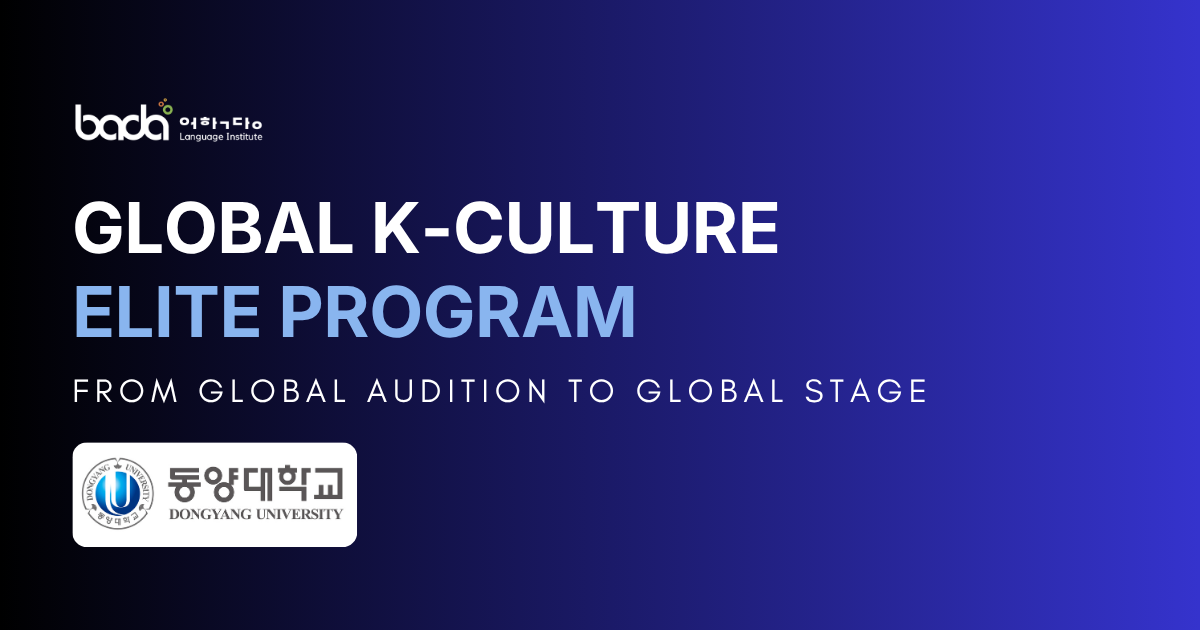
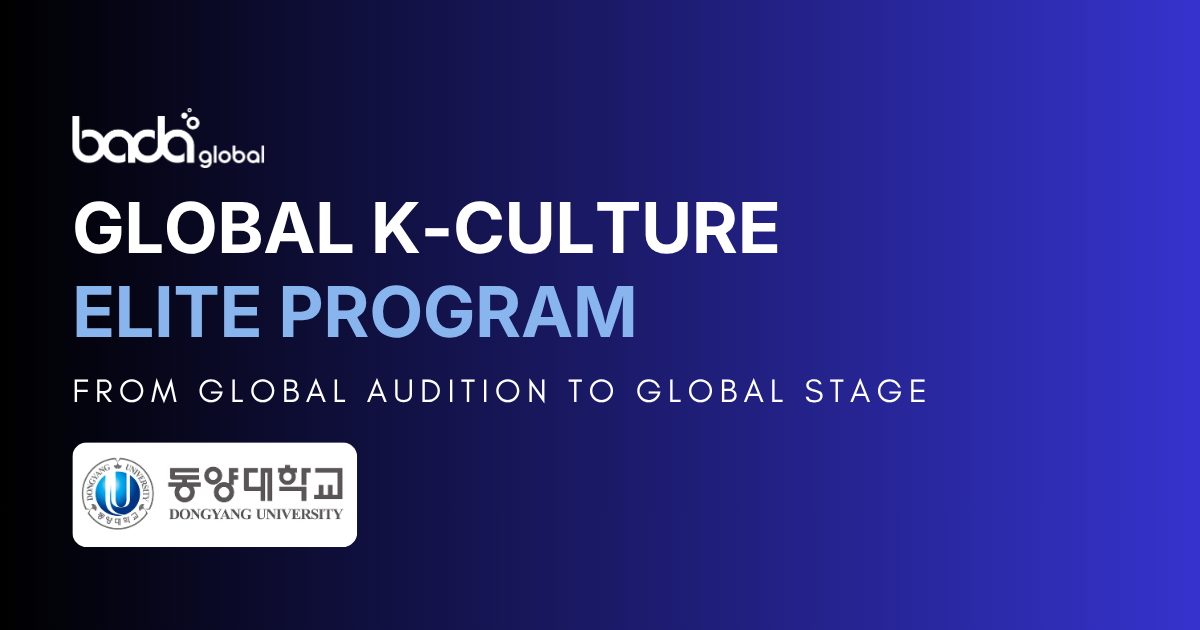
feat: Bada Global 리브랜드 + OG 이미지 교체
브랜드명 전면 일원화 (Chris 공식 채택):
- index.html 9곳 "Bada BLI" → "Bada Global"
  - <title>, meta description/keywords/author, og:title, twitter:title
  - 헤더·푸터 로고 alt, 주석, Footer Copyright
- workers/kc-chatbot/src/lib/system-prompt.ts 챗봇 시스템 프롬프트 1곳
  → Worker 재배포로 반영 필요

OG 이미지 교체:
- assets/og-image.png: "B2B Korean University Gateway" 새 디자인으로 덮어쓰기
  (1200×630 PNG, SNS 공유 표준 치수 유지)
- og:image / twitter:image URL에 ?v=2 캐시 버스팅 파라미터 추가
  → Facebook·KakaoTalk 등 SNS 캐시 강제 갱신 유도

기타:
- .gitignore: 원본 업로드 파일 'assets/B2B Korean University*.png' 제외
  (raw asset은 로컬 보관, 배포 대상 아님)

히스토리 맥락:
- kcultureelite는 2026-04-17 Bada BLI 사이트에서 독립 분리됨
- 이번 리브랜드로 브랜드 정체성까지 완전 별개 확립
- 추후 Bada BLI 쪽 /k-culture.html 삭제 시 301 리다이렉트 필요 (별도 작업)

Changed region(s): [[0.0617, 0.1508, 0.2158, 0.2714]]

diff --git a/index.html b/index.html
@@ -5,28 +5,28 @@
   <meta name="viewport" content="width=device-width, initial-scale=1.0" />
 
   <!-- SEO Meta Tags -->
-  <title>Global K-Culture Elite Program | Bada BLI x Dongyang University</title>
-  <meta name="description" content="From Global Audition to Global Stage. Join the Global K-Culture Elite Program by Bada BLI and Dongyang University — your pathway to K-Pop, K-Drama, and the Korean entertainment industry." />
-  <meta name="keywords" content="K-Culture, K-Pop, Korean entertainment, global audition, Dongyang University, Bada BLI, Korean music, K-Drama, study in Korea" />
-  <meta name="author" content="Bada BLI" />
+  <title>Global K-Culture Elite Program | Bada Global x Dongyang University</title>
+  <meta name="description" content="From Global Audition to Global Stage. Join the Global K-Culture Elite Program by Bada Global and Dongyang University — your pathway to K-Pop, K-Drama, and the Korean entertainment industry." />
+  <meta name="keywords" content="K-Culture, K-Pop, Korean entertainment, global audition, Dongyang University, Bada Global, Korean music, K-Drama, study in Korea" />
+  <meta name="author" content="Bada Global" />
   <meta name="robots" content="index, follow" />
   <link rel="canonical" href="https://kcultureelite.com/" />
 
   <!-- Open Graph / Social Media -->
   <meta property="og:type" content="website" />
   <meta property="og:url" content="https://kcultureelite.com/" />
-  <meta property="og:title" content="Global K-Culture Elite Program | Bada BLI x Dongyang University" />
+  <meta property="og:title" content="Global K-Culture Elite Program | Bada Global x Dongyang University" />
   <meta property="og:description" content="From Global Audition to Global Stage. Your pathway to K-Pop, K-Drama, and the Korean entertainment industry." />
-  <meta property="og:image" content="https://kcultureelite.com/assets/og-image.png" />
+  <meta property="og:image" content="https://kcultureelite.com/assets/og-image.png?v=2" />
   <meta property="og:image:width" content="1200" />
   <meta property="og:image:height" content="630" />
   <meta property="og:site_name" content="K-Culture Elite Program" />
 
   <!-- Twitter Card -->
   <meta name="twitter:card" content="summary_large_image" />
-  <meta name="twitter:title" content="Global K-Culture Elite Program | Bada BLI x Dongyang University" />
+  <meta name="twitter:title" content="Global K-Culture Elite Program | Bada Global x Dongyang University" />
   <meta name="twitter:description" content="From Global Audition to Global Stage. Your pathway to K-Pop, K-Drama, and the Korean entertainment industry." />
-  <meta name="twitter:image" content="https://kcultureelite.com/assets/og-image.png" />
+  <meta name="twitter:image" content="https://kcultureelite.com/assets/og-image.png?v=2" />
 
   <!-- Favicon -->
   <link rel="icon" type="image/svg+xml" href="/favicon.svg" />
@@ -158,11 +158,11 @@
       <div class="absolute inset-0 bg-gradient-to-b from-black/60 via-black/40 to-[#0A0A0A]"></div>
     </div>
 
-    <!-- Navigation: Dual logo (Bada BLI left, Dongyang University right) -->
+    <!-- Navigation: Dual logo (Bada Global left, Dongyang University right) -->
     <header id="navbar" class="fixed w-full top-0 z-50 transition-all duration-500 bg-transparent text-white py-0">
       <div class="container mx-auto px-6 md:px-12 flex justify-between items-center py-3 md:py-4">
         <a href="/" class="hover:opacity-80 transition-opacity flex items-center">
-          <img src="/assets/logo-white.png" alt="Bada BLI Logo" class="h-[66px] md:h-[88px] w-auto">
+          <img src="/assets/logo-white.png" alt="Bada Global Logo" class="h-[66px] md:h-[88px] w-auto">
         </a>
         <div class="flex items-center">
           <img src="/assets/dongyang-logo-white.png" alt="Dongyang University Logo" class="h-[44px] md:h-[56px] w-auto object-contain">
@@ -1249,7 +1249,7 @@
 
         <!-- Logo + Partner -->
         <div class="flex items-center gap-3">
-          <img src="/assets/logo-white.png" alt="Bada BLI" class="h-10 md:h-12 w-auto object-contain" />
+          <img src="/assets/logo-white.png" alt="Bada Global" class="h-10 md:h-12 w-auto object-contain" />
           <span class="text-white/40 text-base font-light">×</span>
           <img src="/assets/dongyang-logo-white.png" alt="Dongyang University" class="h-10 md:h-12 w-auto object-contain" />
         </div>
@@ -1264,7 +1264,7 @@
 
         <!-- Copyright -->
         <p class="text-white/30 text-xs">
-          © 2026 Bada BLI x Dongyang University
+          © 2026 Bada Global x Dongyang University
         </p>
 
       </div>

diff --git a/workers/kc-chatbot/src/lib/system-prompt.ts b/workers/kc-chatbot/src/lib/system-prompt.ts
@@ -2,7 +2,7 @@ import { getKnowledgeBase } from "./kb-loader";
 
 const RULES = `
 You are the official AI assistant for the K-Culture Elite Program
-(kcultureelite.com), a four-year degree program operated by Bada BLI and
+(kcultureelite.com), a four-year degree program operated by Bada Global and
 Dongyang University.
 
 # Scope
